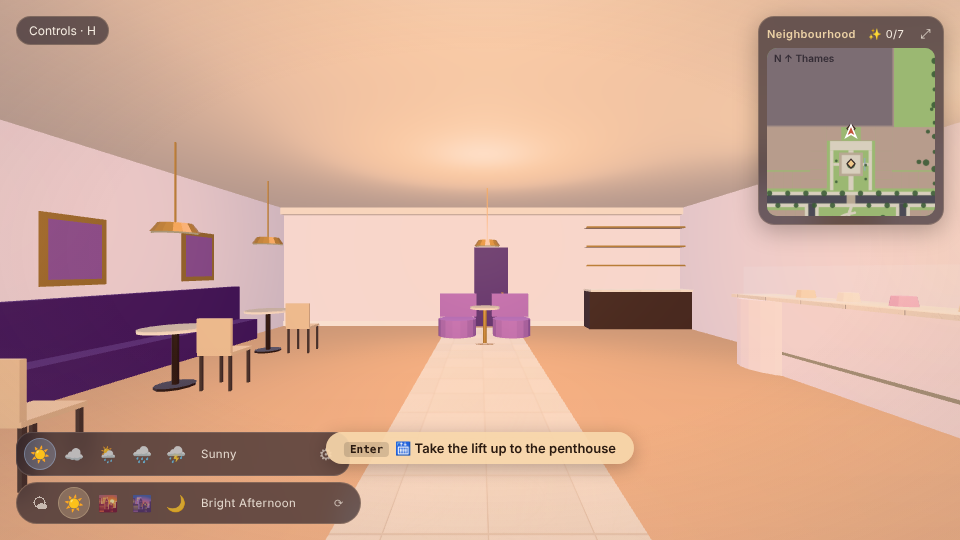
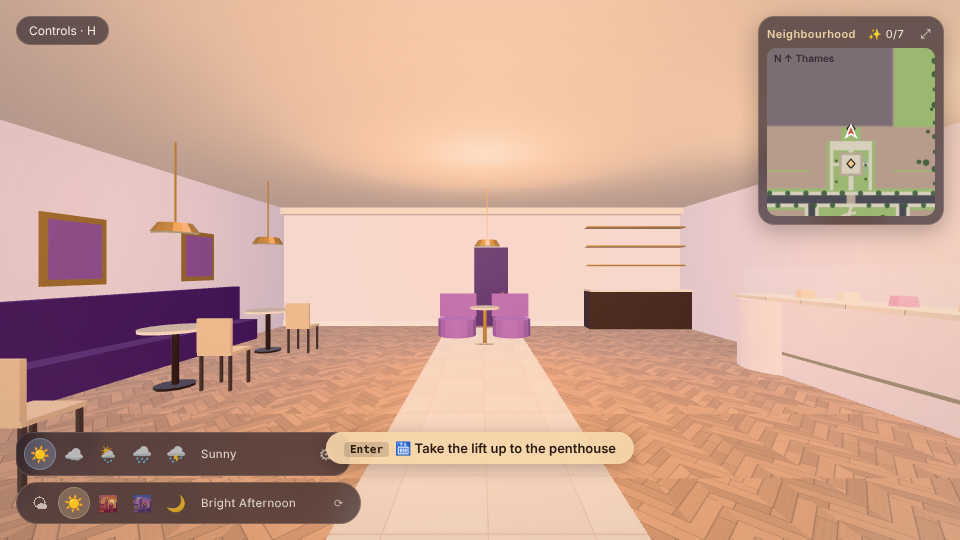
Procedural herringbone parquet and veined marble textures for interiors
Claude-Session: https://claude.ai/code/session_017ZtboRbFUCo4FCo9fUW3pH

diff --git a/src/street/textures.js b/src/street/textures.js
@@ -114,3 +114,34 @@ export const signAtlas = () => mk(1024, 896, (g, w, h) => {
   })
 })
 export const signUV = (i) => { const u0 = (i % 2) / 2, v1 = 1 - Math.floor(i / 2) / 7; return [u0, v1 - 1 / 7, u0 + 0.5, v1] }
+
+// herringbone/chevron timber floor: tile = 1.2 m. Plank 0.6 x 0.1 m; per-plank tonal variation, dark joints, faint grain (greyscale: multiplies the vertex colour).
+export const parquetTex = () => mk(512, 512, (g, w, h) => {
+  const R = rng(61); g.fillStyle = gray(150); g.fillRect(0, 0, w, h)
+  const pw = h / 12 * 0.98, L = h / 2, bands = 4, bw = w / bands
+  for (let b = 0; b < bands; b++) {
+    g.save(); g.beginPath(); g.rect(b * bw, 0, bw, h); g.clip()
+    g.translate(b * bw + bw / 2, h / 2); g.rotate((b % 2 ? 1 : -1) * Math.PI / 4)
+    const n = 14
+    for (let s = -n; s <= n; s++) {
+      const y = s * pw, off = ((s * 37) % 7) * L / 7
+      for (let x = -w - off; x < w; x += L) {
+        const v = 228 + (R() - 0.5) * 40; g.fillStyle = gray(v); g.fillRect(x + 1, y + 1, L - 2, pw - 2)
+        g.strokeStyle = 'rgba(120,90,60,0.10)'; g.lineWidth = 1; for (let k = 0; k < 3; k++) { g.beginPath(); g.moveTo(x + 4, y + 3 + k * pw / 3); g.lineTo(x + L - 4, y + 3 + k * pw / 3 + (R() - 0.5) * 2); g.stroke() }
+      }
+    }
+    g.restore()
+  }
+})
+// pale veined marble: tile = 2.4 m; soft grey veins, subtle cloud variation, thin joint lines at 1.2 m
+export const marbleTex = () => mk(512, 512, (g, w, h) => {
+  const R = rng(73); g.fillStyle = gray(244); g.fillRect(0, 0, w, h)
+  for (let i = 0; i < 40; i++) { const gr = g.createRadialGradient(R() * w, R() * h, 4, R() * w, R() * h, 60 + R() * 120); gr.addColorStop(0, `rgba(${200 + R() * 40},${196 + R() * 40},${190 + R() * 40},0.10)`); gr.addColorStop(1, 'rgba(255,255,255,0)'); g.fillStyle = gr; g.fillRect(0, 0, w, h) }
+  for (let v = 0; v < 22; v++) {
+    g.strokeStyle = `rgba(${120 + R() * 40},${112 + R() * 40},${108 + R() * 40},${0.10 + R() * 0.16})`; g.lineWidth = 0.6 + R() * 1.8
+    let x = R() * w, y = R() * h; g.beginPath(); g.moveTo(x, y)
+    for (let k = 0; k < 6; k++) { x += (R() - 0.35) * 90; y += (R() - 0.5) * 90; g.quadraticCurveTo(x + (R() - 0.5) * 60, y + (R() - 0.5) * 60, x, y) }
+    g.stroke()
+  }
+  g.strokeStyle = 'rgba(150,140,130,0.5)'; g.lineWidth = 1.5; g.strokeRect(0.5, 0.5, w - 1, h - 1); g.beginPath(); g.moveTo(w / 2, 0); g.lineTo(w / 2, h); g.moveTo(0, h / 2); g.lineTo(w, h / 2); g.stroke()
+})

diff --git a/src/street/plan.js b/src/street/plan.js
@@ -124,8 +124,8 @@ export function buildStreet() {
     ch.box(FL, -hw, hw, H + 0.55, H + 0.6, -10, 0.3, col(PAL.slate), 'roof', 'u')
     // ---- the lobby interior (FP: lz 0 = the tower wall at z = 4; the lobby is lx -7..7, lz 0.9..9.55; ceiling 4.9)
     const iw = 7
-    ch.box(FP, -iw, iw, -0.01, 0.04, 0.9, 9.6, col('#f0dfca'), 'trim', 'u', 2.8, 2.8)                                                      // pale veined marble floor (large slabs)
-    ch.box(FP, -iw + 0.6, iw - 0.6, 0.04, 0.046, 1.5, 9.0, col('#e6d2bc'), 'trim', 'u', 2.8, 2.8, 0)                                      // inlaid border
+    ch.box(FP, -iw, iw, -0.01, 0.04, 0.9, 9.6, col('#f4e8d8'), 'marble', 'u', 2.4, 2.4)                                                      // pale veined marble floor (large slabs)
+    ch.box(FP, -iw + 0.6, iw - 0.6, 0.04, 0.046, 1.5, 9.0, col('#e8d6c2'), 'marble', 'u', 2.4, 2.4, 0)                                      // inlaid border
     for (const [x0, x1, z0, z1] of [[-iw + 0.6, iw - 0.6, 1.5, 1.54], [-iw + 0.6, iw - 0.6, 8.96, 9.0], [-iw + 0.6, -iw + 0.64, 1.5, 9.0], [iw - 0.64, iw - 0.6, 1.5, 9.0]]) ch.box(FP, x0, x1, 0.046, 0.052, z0, z1, brass, 'metal', 'u', 1, 1, 0)   // brass inlay line
     ch.box(FP, -iw, iw, 4.9, 5.2, 0.9, 9.6, col('#efe4d6'), 'trim', 'fd', 1, 1, 0)                                                          // ceiling
     for (const [x0, x1, z0, z1] of [[-iw, -iw + 0.9, 0.9, 9.6], [iw - 0.9, iw, 0.9, 9.6], [-iw + 0.9, iw - 0.9, 0.9, 1.7], [-iw + 0.9, iw - 0.9, 8.7, 9.6]]) ch.box(FP, x0, x1, 4.55, 4.9, z0, z1, col('#efe4d6'), 'trim', 'fd', 1, 1, 0)   // recessed ceiling soffit

diff --git a/src/street/Street.jsx b/src/street/Street.jsx
@@ -25,6 +25,7 @@ function makeMaterials() {
   const off = (n) => ({ polygonOffset: true, polygonOffsetFactor: -n, polygonOffsetUnits: -n })
   const M = {
     brick: std({ map: T.brickTex() }), ashlar: std({ map: T.ashlarTex() }), plaster: std({ map: T.plasterTex() }),
+    parquet: std({ map: T.parquetTex(), roughness: 0.48, envMapIntensity: 0.6 }), marble: std({ map: T.marbleTex(), roughness: 0.2, envMapIntensity: 0.9 }),
     trim: std({ roughness: 0.8 }), roof: std({ roughness: 0.78 }), metal: std({ roughness: 0.42, metalness: 0.65 }), wood: std({ roughness: 0.62 }),
     shopin: new THREE.MeshBasicMaterial({ vertexColors: true, toneMapped: true }), shopglass: new THREE.MeshStandardMaterial({ color: '#cfe0e4', transparent: true, opacity: 0.14, roughness: 0.04, metalness: 0, envMapIntensity: 2.6, depthWrite: false }), glass: std({ roughness: 0.1, metalness: 0.0, envMapIntensity: 1.8 }), glow: Object.assign(new THREE.MeshBasicMaterial({ vertexColors: true, toneMapped: false }), { userData: { glow: true } }),
     awning: std({ side: THREE.DoubleSide, roughness: 0.95 }), leaf: std({ roughness: 1 }), trunk: std({ roughness: 1 }),

diff --git a/src/street/interiors.js b/src/street/interiors.js
@@ -7,7 +7,7 @@ const FL = 0.2, CE = 3.35
 // shared room shell: floor, ceiling, wall linings, front-wall lining beside window/door, walking surface + wall colliders handled by shopBuilding
 function shell(ch, F, c, o) {
   const { w, d } = c, x0 = -w / 2 + 0.12, x1 = w / 2 - 0.12, z0 = -d + 0.3, z1 = -1.1
-  ch.box(F, x0, x1, FL - 0.06, FL, z0, z1 + 0.02, col(o.floor), 'trim', 'u', 1.2, 1.2, 0)
+  ch.box(F, x0, x1, FL - 0.06, FL, z0, z1 + 0.02, col(o.floor), 'parquet', 'u', 1.2, 1.2, 0)
   ch.box(F, x0, x1, CE, CE + 0.1, z0, z1 + 0.02, col(o.ceil), 'trim', 'ud', 1, 1, 0)
   ch.box(F, x0, x0 + 0.02, FL, CE, z0, z1, col(o.wall), 'trim', 'r', 3, 3, 0)
   ch.box(F, x1 - 0.02, x1, FL, CE, z0, z1, col(o.wall), 'trim', 'l', 3, 3, 0)

diff --git a/docs/bible/DEFECTS.md b/docs/bible/DEFECTS.md
@@ -2,7 +2,7 @@
 - D-001 (open, partially tuned: wall and floor darkened, env 0.35) Lift lobby reads brighter/paler than Bible p.17 target (target has darker marble, visible floor reflection, dimmer cove). Lights reduced once; remaining wash comes from golden-hour environment light in the penthouse. Needs Blender/localhost same-angle comparison + tuning.
 - D-002 (open) Lift lobby sign "Lift" is faint; floor marble reflection not visible.
 - Verified: lobby renders (docs/bible/lobby/t1,t2); entrance door opens; lift call → ride down → street; street lift → return to penthouse, lift doors open then auto-close (fastAnim on; SwiftShader is too slow for real-time timing).
-- D-003 (open) Ground-floor lobby (s06) rebuilt in plan.js to Bible p.22 layout: marble-tone floor, recessed cove ceiling + downlights, timber slats + dark stone pilasters around lift, curved fluted reception counter, barrel chair + side table, rug, tiered ring chandelier, brushed-gold lift leaves. STILL: floor reads lilac under sky light (no true reflective marble, no veining texture), plaster has no texture, lift doors lack seam detail/indicator, trees/planters are old low-poly props, no Blender baked kit. Not approved.
+- D-003 (open; floor now veined marble texture) Ground-floor lobby (s06) rebuilt in plan.js to Bible p.22 layout: marble-tone floor, recessed cove ceiling + downlights, timber slats + dark stone pilasters around lift, curved fluted reception counter, barrel chair + side table, rug, tiered ring chandelier, brushed-gold lift leaves. STILL: floor reads lilac under sky light (no true reflective marble, no veining texture), plaster has no texture, lift doors lack seam detail/indicator, trees/planters are old low-poly props, no Blender baked kit. Not approved.
 - D-004 (open) Entrance s07: slim bronze glazing + glass + sliding leaves done; no actual proximity-sliding animation (leaves are static, opening is permanently clear for navigation); evening/blue-hour comparison vs p.26 pending; interior floor not reflective.
 - D-005 (open) Courtyard s08: circular glow-ring planter added at the centre tree; trees/foliage still low-poly cards, paving procedural (no slab joints bevel), lamps fine; no Blender master; blue-hour check pending. Note: Bible p.26 (s07) target shows a pink blossom tree but s08 text forbids pink-blossom-heavy courtyard — keep green, flag to owner.
 - D-006 (open) Interiors (s13/s14): Café Violette + The Quiet Page are now walkable rooms behind their shopfronts (door aisles verified clear by collider scan; doorways are open, no door leaf/interaction yet). Visual quality is greybox-plus: no fabric/wood textures, no Blender-baked furniture, no wisteria-free check beyond palette (no flowers used in the bookshop except none), café lacks pastry detail/menu/espresso machine, no restroom door interaction, floor reads orange under warm lights; interior floors pick up the rainy-wet reflection (applyWet) — should be excluded.

diff --git a/docs/bible/PROGRESS.md b/docs/bible/PROGRESS.md
@@ -6,3 +6,4 @@
 - s13 Café Violette + s14 The Quiet Page walkable interiors (D-006); rain exclusion zones (D-007).
 - Not started / partial: s10 Maison Home/Café Vivienne façades, s11 Maison Sauvage/Papier & Co., s12 shopping street cinematic pass, s15 riverside promenade, foliage rebuild, time-of-day matrix for new spaces, M2 perf, gate evidence G1–G8.
 - Shopping street pass 1: window boxes (not on the bookshop), A-frame blackboards, plum awning + wisteria on Café Violette, foliage greens/finer leaf cards. Still open: cobble variation, string-light density, Blender-baked props, matched-camera BEFORE/BLENDER/LOCALHOST triplets for every environment.
+- Textured materials: procedural herringbone parquet (café, bookshop) and veined marble (ground lobby) added to the street material set (src/street/textures.js, Street.jsx). Remaining untextured: plaster walls, slats, fabrics.
